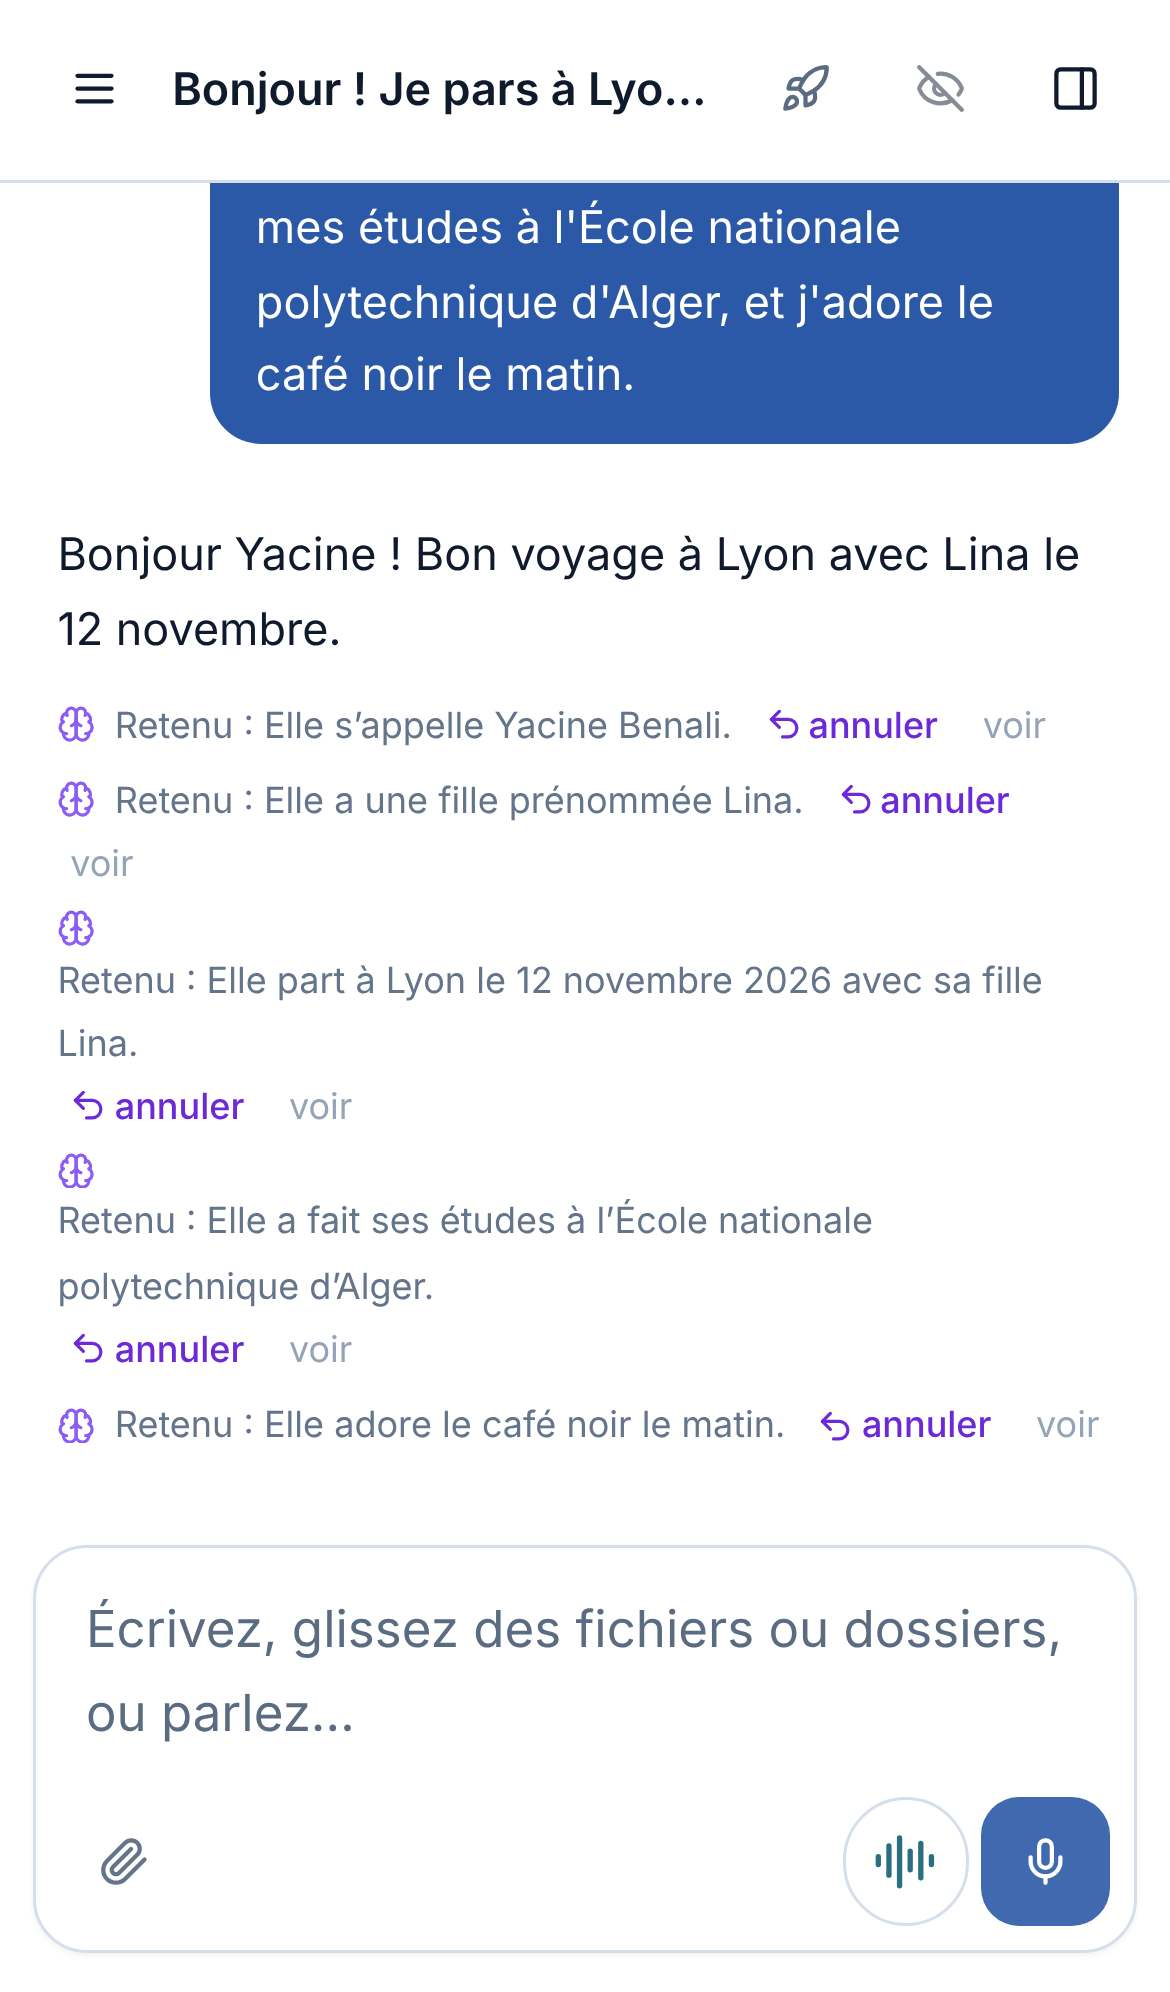
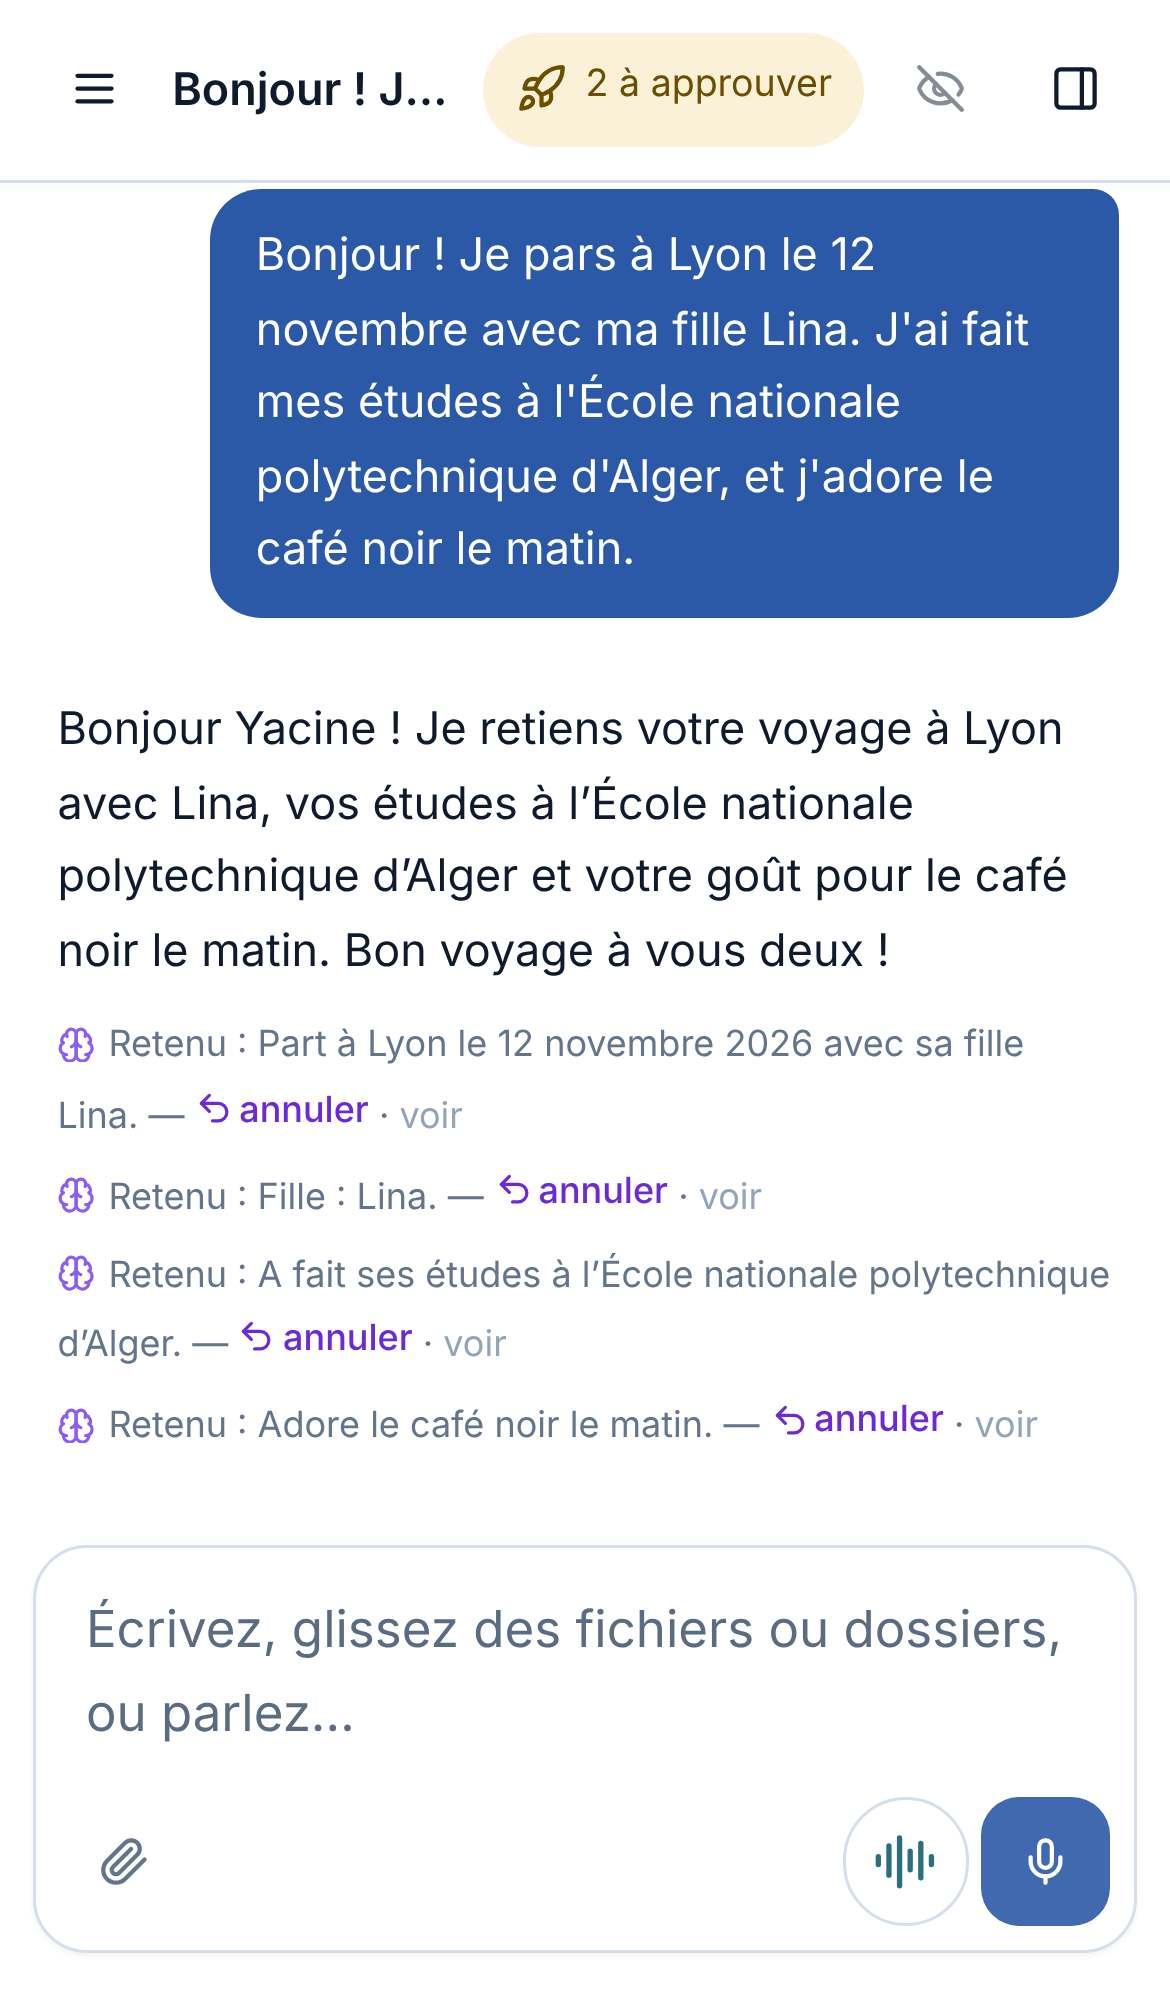
test(assistant-ia): audit M1 sur serveur réel (iPhone 13 + bureau, vrai modèle) — 18 fonctions, preuves et coûts ; capture de mémoire sans catch muet
Claude-Session: https://claude.ai/code/session_01VhQtxby9xRg6iSuppTJn5t

diff --git a/scripts/bench/m1-audit.ts b/scripts/bench/m1-audit.ts
@@ -98,11 +98,15 @@ const contient = (t: string | null | undefined, ...mots: string[]) => mots.every
 async function main() {
   const u = await prisma.user.findUniqueOrThrow({ where: { email: EMAIL }, select: { id: true, name: true } });
   userId = u.id;
-  // Le banc : l'assistant ouvert à ce compte (la Direction l'active par personne), la mémoire repart de zéro.
+  // Le banc : l'assistant ouvert à ce compte (la Direction l'active par personne) ; le plafond du jour relevé (un audit
+  // complet dépasse les 600 000 jetons du défaut) ; la mémoire repart de zéro — sauf pour une reprise d'étapes.
   await prisma.userAccess.deleteMany({ where: { userId, module: "ASSISTANT_IA" } });
   await prisma.userAccess.create({ data: { userId, module: "ASSISTANT_IA", canView: true, scope: "ASSIGNED" } });
-  await prisma.assistantMemoryItem.deleteMany({ where: { userId } });
-  await prisma.assistantIaPreference.deleteMany({ where: { userId } });
+  await prisma.assistantIaReglage.upsert({ where: { id: "global" }, create: { id: "global", plafondJetonsJour: 5_000_000 }, update: { plafondJetonsJour: 5_000_000 } });
+  if (!SEULES.length || SEULES.includes("memoire-capture")) {
+    await prisma.assistantMemoryItem.deleteMany({ where: { userId } });
+    await prisma.assistantIaPreference.deleteMany({ where: { userId } });
+  }
 
   const { ctx, page } = await contexte("iphone13");
   let convA: string | null = null;
@@ -176,7 +180,8 @@ async function main() {
 
   await etape("notes", async () => {
     await nouvelle(page, true);
-    const r = await envoyer(page, "Ajoute dans mes notes : rappeler le Dr Mansouri lundi pour le congrès.");
+    // Une note NEUVE à chaque passage (la même déjà présente, l'assistant le dit et ne propose rien — vu au banc).
+    const r = await envoyer(page, `Ajoute dans mes notes : rappeler le Dr Mansouri lundi pour le congrès (dossier ${Date.now().toString(36).toUpperCase()}).`);
     const ids = Array.isArray(r?.notesProposees) ? (r!.notesProposees as string[]) : [];
     const bouton = page.getByRole("button", { name: /^Accepter$/ }).last();
     let accepte = false;
@@ -327,8 +332,16 @@ async function main() {
     await b.ctx.browser()?.close();
   });
 
+  // Une REPRISE d'étapes complète le rapport précédent (mêmes fonctions remplacées), coûts comptés depuis son début.
+  const fichier = path.join(SORTIE, "rapport.json");
+  const avant = SEULES.length && fs.existsSync(fichier) ? JSON.parse(fs.readFileSync(fichier, "utf8")) as { lignes: Ligne[]; debut?: string } : null;
+  const debut = avant?.debut ? new Date(avant.debut) : debutAudit;
+  if (avant) {
+    const neuves = new Set(lignes.map((l) => l.fonction));
+    lignes.unshift(...avant.lignes.filter((l) => !neuves.has(l.fonction) && !SEULES.includes(l.fonction)));
+  }
   // ── COÛTS : le journal K8 (ModelCallLog), par usage — la capture de mémoire à part.
-  const appels = await prisma.modelCallLog.findMany({ where: { userId, at: { gte: debutAudit } }, select: { role: true, model: true, inputTokens: true, outputTokens: true, costUsd: true } });
+  const appels = await prisma.modelCallLog.findMany({ where: { userId, at: { gte: debut } }, select: { role: true, model: true, inputTokens: true, outputTokens: true, costUsd: true } });
   const par = new Map<string, { appels: number; entree: number; sortie: number; usd: number }>();
   for (const a of appels) {
     const k = `${a.role ?? "?"} · ${a.model}`;
@@ -336,8 +349,8 @@ async function main() {
     v.appels += 1; v.entree += a.inputTokens; v.sortie += a.outputTokens; v.usd += Number(a.costUsd ?? 0);
     par.set(k, v);
   }
-  const tours = await prisma.assistantIaTour.count({ where: { userId, role: "assistant", createdAt: { gte: debutAudit } } });
-  const rapport = { base: BASE, compte: EMAIL, le: new Date().toISOString(), lignes, couts: Object.fromEntries(par), toursRepondus: tours, erreursConsole };
+  const tours = await prisma.assistantIaTour.count({ where: { userId, role: "assistant", createdAt: { gte: debut } } });
+  const rapport = { base: BASE, compte: EMAIL, debut: debut.toISOString(), le: new Date().toISOString(), lignes, couts: Object.fromEntries(par), toursRepondus: tours, erreursConsole };
   fs.writeFileSync(path.join(SORTIE, "rapport.json"), JSON.stringify(rapport, null, 2));
   console.log(JSON.stringify({ lignes: lignes.map((l) => `${l.verdict.padEnd(14)} ${l.fonction} — ${l.preuve.slice(0, 160)}`), couts: rapport.couts, erreursConsole }, null, 2));
   await prisma.$disconnect();

diff --git a/src/modules/assistant-ia/infra/memoire-capture.ts b/src/modules/assistant-ia/infra/memoire-capture.ts
@@ -1,4 +1,5 @@
 import { prisma } from "@/lib/prisma";
+import { attendu, sansBloquer } from "@/lib/journal";
 import { censurerTexte } from "../domaine/filtre-confidentialite";
 import {
   CAPTURES_MAX_PAR_TOUR, CONSIGNE_EXTRACTEUR, entreeExtracteur, EXISTANTS_MAX, faitDurablePossible, garderCandidat, lireExtraction,
@@ -69,7 +70,7 @@ const dateLisible = (d: Date) => d.toLocaleDateString("fr-FR", { weekday: "long"
 /** Une capture PEUT-elle avoir lieu (réglage, privée, filtre déterministe) ? Rien n'est appelé — l'écran l'annonce. */
 export async function captureEnvisagee(userId: string, message: string, prive: boolean): Promise<boolean> {
   if (prive || !faitDurablePossible(censurerTexte(sansEntete(message)).texte)) return false;
-  return memoireAutoActive(userId).catch(() => false);
+  return memoireAutoActive(userId).catch(sansBloquer("assistant-memoire.captureEnvisagee", false));
 }
 
 /** CAPTURER après un tour. Ne lève jamais : une mémoire qui échoue ne casse pas la conversation. */
@@ -125,7 +126,7 @@ export async function capturerApresTour(d: DemandeCapture): Promise<BilanCapture
 export async function plongerSouvenirs(userId: string, ids: readonly string[], plonger: Plongeur): Promise<number> {
   const items = await prisma.assistantMemoryItem.findMany({ where: { id: { in: [...ids] }, userId }, select: { id: true, type: true, content: true } });
   if (!items.length) return 0;
-  const v = await plonger(items.map((i) => texteIndexe({ sorte: i.type, contenu: i.content }))).catch(() => null);
+  const v = await plonger(items.map((i) => texteIndexe({ sorte: i.type, contenu: i.content }))).catch(attendu("plongement au mieux : sans lui, le rappel reste lexical", null));
   if (!v || v.length !== items.length) return 0;
   await Promise.all(items.map((i, k) => prisma.assistantMemoryItem.updateMany({ where: { id: i.id, userId }, data: { vecteur: v[k] } })));
   return items.length;
@@ -142,7 +143,7 @@ export async function rappelDuTour(userId: string, question: string, deps: { plo
   // Le sens ne sert que si tout ne tient pas — et seulement si des souvenirs ont leur plongement.
   if (question.trim() && !toutTient(souvenirs) && tous.some((s) => s.vecteur.length)) {
     const plonger = deps.plonger ?? plongeurDuMoment();
-    const q = plonger ? await plonger([question.slice(0, 2_000)]).catch(() => null) : null;
+    const q = plonger ? await plonger([question.slice(0, 2_000)]).catch(attendu("plongement au mieux : sans lui, le rappel reste lexical", null)) : null;
     if (q?.[0]) similarites = new Map(tous.filter((s) => s.vecteur.length).map((s) => [s.id, cosinus(q[0], s.vecteur)]));
   }
   const rappel = choisirSouvenirs(souvenirs, question, { similarites });
@@ -155,7 +156,7 @@ export async function rappelDuTour(userId: string, question: string, deps: { plo
   const servis = [...rappel.profil, ...rappel.pertinents].map((s) => s.id);
   if (servis.length) {
     // Le temps n'est pas celui du tour : `lastUsedAt` ne touche pas `updatedAt` (l'ordre « du plus récent » reste celui des faits).
-    void prisma.$executeRaw`UPDATE "AssistantMemoryItem" SET "lastUsedAt" = NOW() WHERE "userId" = ${userId} AND "id" = ANY(${servis})`.catch(() => {});
+    void prisma.$executeRaw`UPDATE "AssistantMemoryItem" SET "lastUsedAt" = NOW() WHERE "userId" = ${userId} AND "id" = ANY(${servis})`.catch(sansBloquer("assistant-memoire.lastUsedAt"));
   }
   return { section, rappel, censure };
 }

diff --git a/scripts/bench/m1-audit-erp.ts b/scripts/bench/m1-audit-erp.ts
@@ -1,0 +1,35 @@
+/**
+ * LOT M1 (décision 0045) — le panneau « Ce qu'il retient » CÔTÉ ERP (`/assistant`), sur serveur de production SANS
+ * `APP_MODE` (l'ERP), base de banc, après `scripts/bench/m1-audit.ts` (la mémoire du compte est déjà remplie).
+ *   rm -rf .next && npm run build:render
+ *   DATABASE_URL=…/amd_bench … npx next start -p 3101
+ *   M1_BASE=http://localhost:3101 DATABASE_URL=…/amd_bench npx tsx scripts/bench/m1-audit-erp.ts
+ * Captures : `docs/assistant/preuves/m1/erp-{bureau,iphone}-panneau.jpg`.
+ */
+import { chromium, devices } from "@playwright/test";
+
+const BASE = process.env.M1_BASE ?? "http://localhost:3101";
+
+(async () => {
+  const b = await chromium.launch({ executablePath: process.env.PW_CHROMIUM ?? "/opt/pw-browsers/chromium" });
+  for (const [nom, opts] of [["bureau", { viewport: { width: 1440, height: 900 } }], ["iphone", { ...devices["iPhone 13"] }]] as const) {
+    const p = await (await b.newContext(opts as never)).newPage();
+    p.setDefaultTimeout(120_000);
+    await p.goto(`${BASE}/login`);
+    await p.getByLabel(/e-?mail/i).fill(process.env.M1_EMAIL ?? "yacine.benali@adventum-bench.dz");
+    await p.getByLabel(/mot de passe/i).fill("Bench12345!");
+    await p.getByRole("button", { name: /connexion|se connecter/i }).click();
+    await p.waitForURL((u) => !u.pathname.startsWith("/login"));
+    await p.goto(`${BASE}/assistant`);
+    await p.getByLabel("Votre message").first().waitFor();
+    // Sur téléphone, « Ma mémoire » est dans « Plus d'outils ».
+    if (nom === "iphone") await p.getByRole("button", { name: "Plus d'outils" }).click();
+    await p.getByRole(nom === "iphone" ? "menuitem" : "button", { name: /Ma mémoire/ }).first().click();
+    const panneau = p.getByRole("dialog", { name: "Ce qu'il retient" });
+    await panneau.getByTestId("souvenir").first().waitFor();
+    await p.waitForTimeout(800);
+    await p.screenshot({ path: `docs/assistant/preuves/m1/erp-${nom}-panneau.jpg`, type: "jpeg", quality: 62 });
+    console.log(nom, "souvenirs affichés :", await panneau.getByTestId("souvenir").count(), "— compteur :", await panneau.getByTestId("compteur-memoire").innerText());
+  }
+  await b.close();
+})().catch((e) => { console.error(e); process.exit(1); });

diff --git a/docs/assistant/preuves/m1/AUDIT.md b/docs/assistant/preuves/m1/AUDIT.md
@@ -1,0 +1,70 @@
+# Audit M1 — Adventum IA sur serveur réel (01/11/2026)
+
+**Conditions** : build de production propre (`rm -rf .next && APP_MODE=adventum-ia RENDER=1 npm run build:render`,
+lint + typecheck + build), `next start` en mode app sur la base de banc `amd_bench` (semée par
+`scripts/bench/seed-adam-bench.ts`), **vrai modèle** OpenAI (`gpt-6.1-terra` pour les tours, `gpt-6-luna` rapide,
+`gpt-image-2.5-sunburst`), compte de Direction du banc (Yacine Benali, assistant ouvert à sa personne). Script rejouable :
+`scripts/bench/m1-audit.ts` (Playwright, iPhone 13 puis bureau 1440 px) ; rapport brut : [`rapport.json`](rapport.json).
+Erreurs de console (navigateur, réponses ≥ 500) pendant tout l'audit : **0**.
+
+## Le tableau
+
+| Fonction | Verdict | Preuve |
+|---|---|---|
+| **Mémoire — capture automatique** | ✅ marche | 4 souvenirs en base (`AssistantMemoryItem`, origine `auto`) après UN message : `[VOYAGES] Part à Lyon le 12 novembre 2026 avec sa fille Lina` · `[FAMILLE] Fille : Lina` · `[ETUDES_PARCOURS] A fait ses études à l'École nationale polytechnique d'Alger` · `[GOUTS_LOISIRS] Adore le café noir le matin`. Lignes « Retenu : … — annuler · voir » sous la réponse. [iphone-01](iphone-01-capture-retenu.jpg) |
+| Mémoire — « annuler » | ✅ marche | souvenirs actifs 4 → 3, ligne barrée « annulé ». [iphone-02](iphone-02-annule.jpg), [bureau-01](bureau-01-conversation-retenu.jpg) |
+| **Mémoire — rappel dans une NOUVELLE conversation** | ✅ marche | « Tu te souviens de mon voyage ? » → « Oui, tu pars à Lyon le 12 novembre 2026 avec ta fille Lina. » [iphone-03](iphone-03-rappel-voyage.jpg) |
+| Mémoire — panneau « Ce qu'il retient » | ✅ marche | groupes (Moi, Ma vie…), compteur, origine (lien vers la conversation), date, édition en ligne écrite en base, réglage « Mémoire automatique », tout effacer ; mis à jour sans recharger (l'édition se voit aussitôt dans la conversation : « Fille : Lina. (corrigé) »). [iphone-04](iphone-04-panneau.jpg), [iphone-05](iphone-05-panneau-edite.jpg), [bureau-02](bureau-02-panneau.jpg) |
+| Mémoire — conversation vocale | ✅ marche | fin de session (`/api/assistant-ia/voix/journal`) : transcription au fil + `[FAMILLE] Fils : Adam, qui commence l'université à Constantine en septembre 2027` (origine `voix`). [iphone-15](iphone-15-voix-transcription.jpg) |
+| Conversation privée | ✅ marche | « Ma femme s'appelle Sarah… » → 0 souvenir créé, aucun appel d'extracteur. [iphone-06](iphone-06-privee.jpg) |
+| Conversations — création, titre | ✅ marche | `AssistantIaFil` titré « Voyage à Lyon avec Lina » (`titreSource = auto`, modèle rapide). |
+| Dossiers de conversations | ✅ marche | bouton « Nouveau dossier », panneau du dossier. [iphone-18](iphone-18-dossiers.jpg) |
+| Mes notes — proposition, acceptation, onglet | ✅ marche | 1 proposition (`AssistantIaNoteProposition` → `ACCEPTEE`), onglet Notes du tiroir. Une note identique déjà présente : l'assistant le dit et ne propose rien (vu au banc). [iphone-07](iphone-07-notes-proposees.jpg), [iphone-08](iphone-08-onglet-notes.jpg) |
+| Missions — sous-missions, tableau temps réel, synthèse | ✅ marche | 2 sous-missions, « Tout approuver », carte mise à jour en direct, synthèse `TERMINE` (« 2/2 terminées, coût total 0,03 $ »). [iphone-12a](iphone-12a-missions-a-approuver.jpg), [iphone-12](iphone-12-missions.jpg) |
+| Recherche approfondie | ✅ marche | 1 mission (2 angles), rapport de 24 424 caractères, 104 appels de source numérotés, coût 0,11 $. [iphone-13a](iphone-13a-recherche-approfondie.jpg) |
+| Recherche web | ✅ marche | `web_research`, réponse datée (« publications du 28 octobre 2026 ») avec la source. [iphone-11](iphone-11-web.jpg) |
+| Analyse de données | ✅ marche | lecture → SQL en lecture seule → « Analyse calculée » : tableau et calcul vérifiable sous la réponse. [iphone-09](iphone-09-analyse.jpg) |
+| Exports | ✅ marche | « Exporte le suivi Regulatory en Excel » → fichier dans Drive › Exports, lien de téléchargement. [iphone-10](iphone-10-export.jpg) |
+| Pièces jointes | ✅ marche | fichier déposé, lu, résumé exact (« reporté à janvier 2027 faute d'enregistrement ANPP »). [iphone-13](iphone-13-piece.jpg) |
+| Images | ✅ marche | `AssistantIaVisuel` créé, image dans le Drive (famille « Images & vidéos » ouverte pour le banc — fermée par défaut). [iphone-14](iphone-14-image.jpg) |
+| Réglages | ✅ marche | thème, réponse vocale, missions d'office, notifications, appareils connectés, consommation. [iphone-16](iphone-16-reglages.jpg), [iphone-17](iphone-17-consommation.jpg) |
+| Voix — session temps réel | ⚪ non testable ici | la session WebRTC exige un vrai micro : la route répond proprement (502 du fournisseur à une offre SDP factice, 429 au plafond), jamais d'erreur serveur. La capture de fin de session est prouvée ci-dessus. |
+| ERP `/assistant` — panneau « Ce qu'il retient » | voir § ERP | même composant (`MemoirePanel`), même ligne « Retenu » (`ChatMessageList`). |
+
+## Ce qui a été trouvé et CORRIGÉ dans ce lot
+
+1. **La cause du constat** (décision [0045](../../decisions/0045-memoire-automatique.md) § 1) : la mémoire n'écrivait rien sans un clic sur
+   une carte rarement proposée, ne visait que le travail, rien à l'oral ; rappel par mots communs seulement. → capture
+   automatique réversible, sortes de la vie personnelle, rappel par pertinence, voix.
+2. **Premier passage réel** : l'extracteur écrivait « **Elle** s'appelle Yacine Benali » — genre supposé, et le nom du
+   compte retenu pour rien. → consigne « sans pronom ni genre supposé » (« Fille : Lina », « Part à Lyon… »), garde qui
+   refuse le nom du compte.
+3. **Faux positif du filtre** : « fais-moi la synthèse » déclenchait l'extracteur (« thèse » dans « synthèse »). → thèmes
+   ancrés en début de mot (test ajouté).
+4. **Mise en page iPhone** : la ligne « Retenu » se cassait (icône seule sur une ligne). → texte en flux.
+
+## Reste (hors de ce lot, pour décision)
+
+- **Plafond quotidien** : 600 000 jetons/personne/jour (défaut). L'audit l'a atteint (une recherche approfondie et des
+  missions pèsent ~150 000 jetons) : le refus est propre et dit, mais un usage intensif de la Direction peut le toucher.
+  Relevé pour le banc uniquement (`AssistantIaReglage`, 5 M) — à décider pour la production.
+- **Export des demandes de paiement** : aucun écran ne l'offre, l'assistant le dit honnêtement et cite le Centre de
+  paiement. À ajouter au catalogue (`src/lib/exports/catalogue.ts`) si la Direction le veut.
+- **Missions hors Super Admin** : elles attendent « Approuver » (réglage « démarrer d'office », décision 0033) — voulu.
+- **Images** : famille fermée par défaut dans la console — voulu (coût).
+
+## Coûts mesurés (journal K8, `ModelCallLog`, tout l'audit final)
+
+| Usage · modèle | Appels | Jetons entrée / sortie | Coût |
+|---|---|---|---|
+| fil · gpt-6.1-terra (les tours) | 45 | 417 059 / 7 206 | 0,2657 $ |
+| worker · gpt-5.6-terra (recherche approfondie) | 1 | 36 405 / 1 611 | 0,1321 $ |
+| redaction · gpt-6.1-terra (rapport, synthèses) | 5 | 20 880 / 7 695 | 0,0594 $ |
+| image · gpt-image-2.5-sunburst | 1 | 28 / 439 | 0,0133 $ |
+| redaction · gpt-6-luna (titres, résumés) | 13 | 2 411 / 860 | 0,0007 $ |
+| **memoire · gpt-6-luna (capture)** | **2** | **1 300 / 385** | **0,000323 $** |
+| **memoire · text-embedding-3-small** | **2** | **163 / 0** | **0,000003 $** |
+
+Sur 24 réponses, l'extracteur n'a été appelé que **2 fois** (les deux messages qui portaient des faits sur la personne) :
+le filtre déterministe a écarté les 22 autres sans rien dépenser. Une capture coûte ≈ **0,00016 $**, soit < 1 % du tour
+qu'elle suit.
